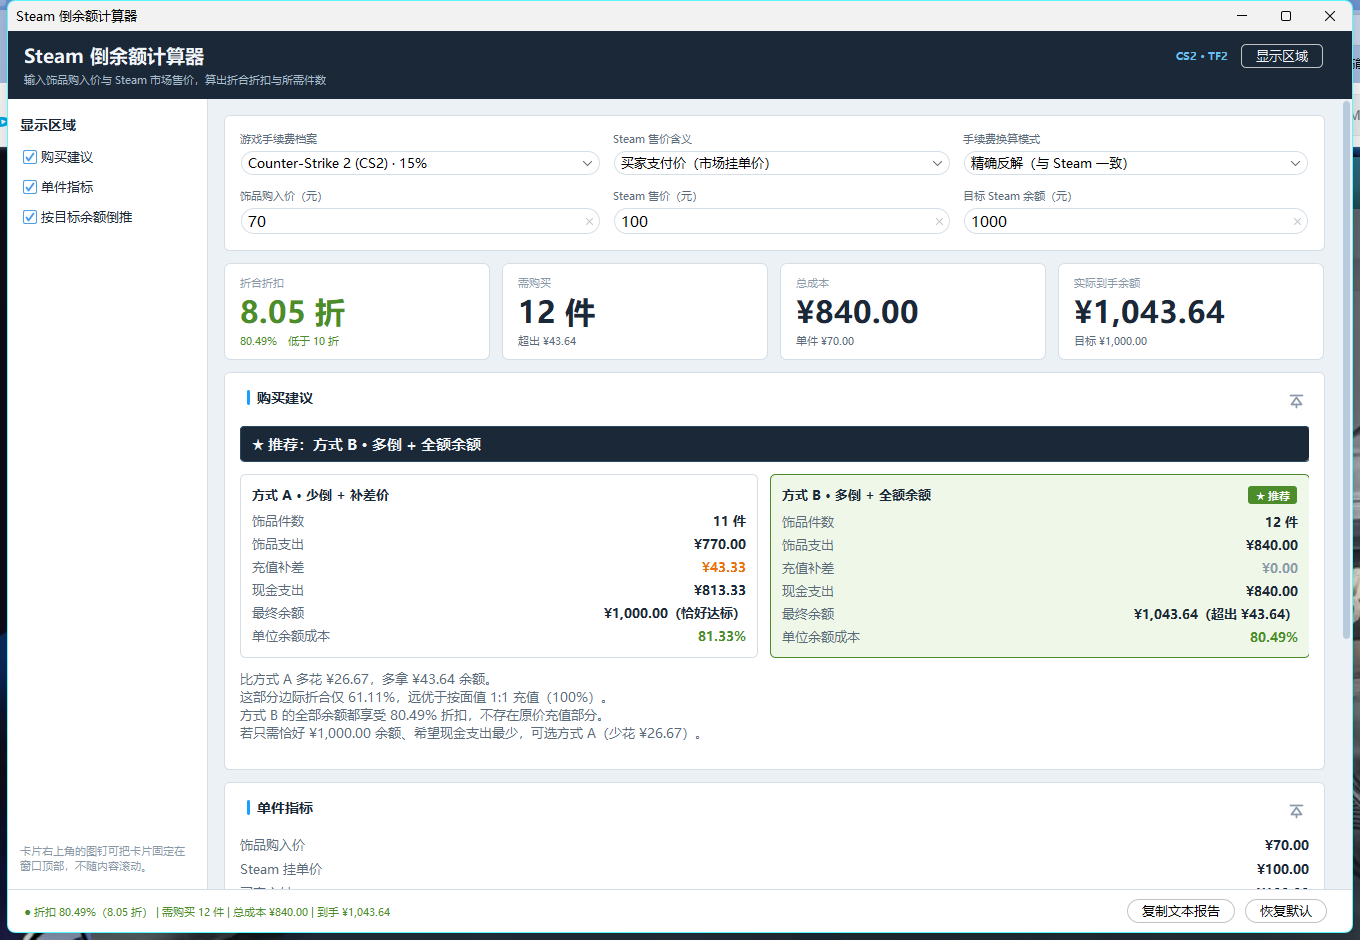
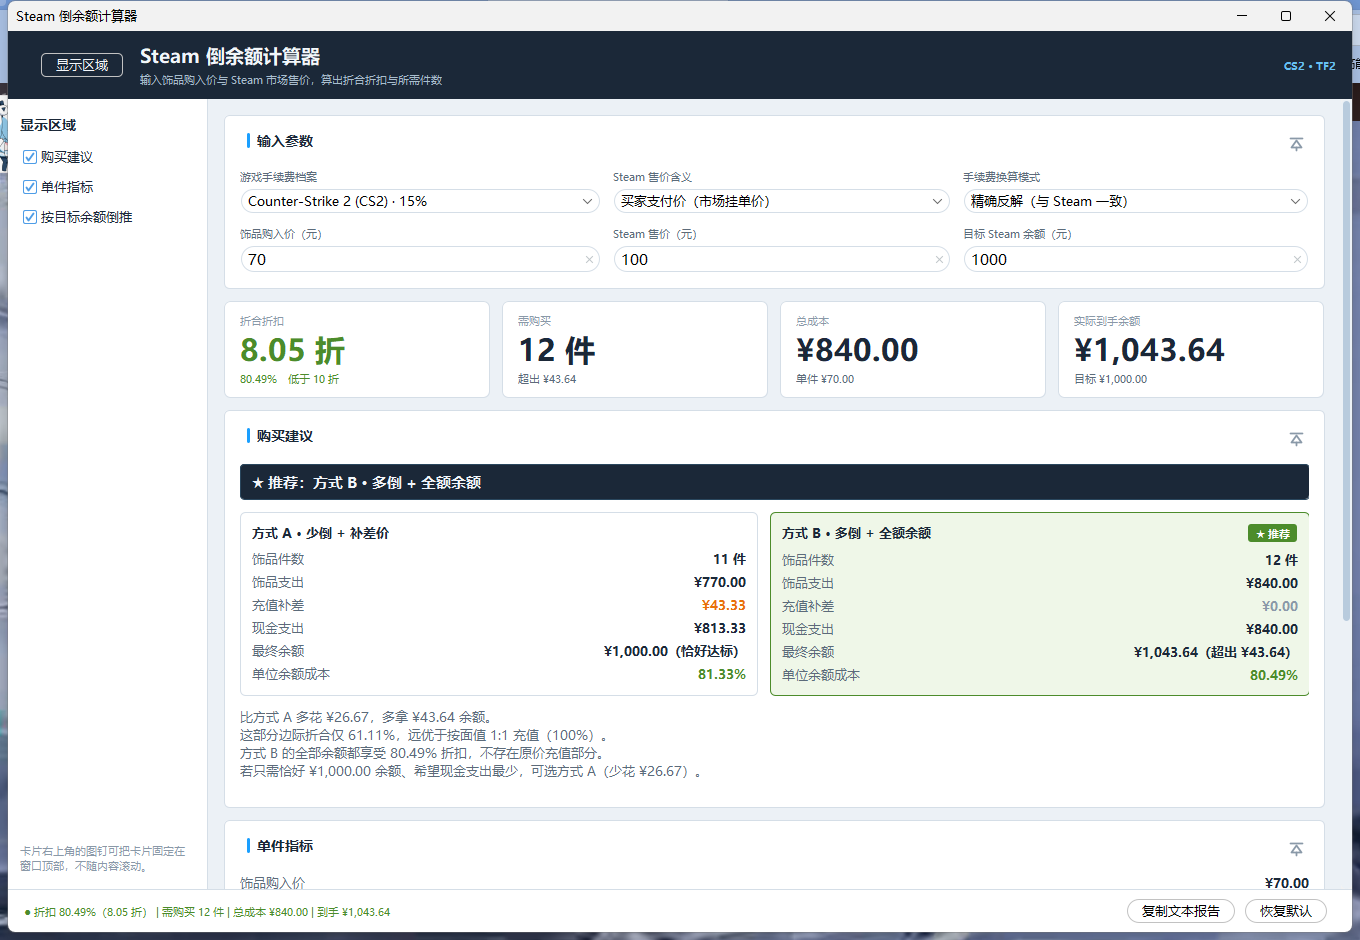
feat(gui): 输入卡也支持置顶，抽屉开关移到标题栏左侧
- 新增 InputCard（继承 SectionCard）：输入区获得标题「输入参数」与图钉按钮。
  往下看明细与建议时可以把输入区钉在顶部，一边调参数一边看结果，不必来回滚动
- 侧边抽屉开关「显示区域」从标题栏右侧移到最左侧
- 置顶与排序改用统一的 cards 列表
  （输入参数 → 购买建议 → 单件指标 → 按目标余额倒推），
  不再把输入卡硬编码在滚动区；输入卡被置顶时，核心指标卡留在滚动区顶部
- 移除重构后失去用途的 sections 字段

测试：GuiSelfCheck 50 -> 56 项，新增「输入卡在滚动区首位、指标卡紧跟其后」、
「输入卡置顶后指标卡留在首位」、「取消置顶后恢复顺序」。
README 与截图同步更新。

diff --git a/src/main/java/com/steamarbitrage/gui/SwingApp.java b/src/main/java/com/steamarbitrage/gui/SwingApp.java
@@ -10,6 +10,7 @@ import com.steamarbitrage.gui.theme.Theme;
 import com.steamarbitrage.gui.theme.UiFactory;
 import com.steamarbitrage.gui.theme.VerticalLayout;
 import com.steamarbitrage.gui.view.AdvicePanel;
+import com.steamarbitrage.gui.view.InputCard;
 import com.steamarbitrage.gui.view.InputPanel;
 import com.steamarbitrage.gui.view.MetricsPanel;
 import com.steamarbitrage.gui.view.SectionCard;
@@ -88,9 +89,14 @@ public final class SwingApp {
     private final TargetPanel targetPanel = new TargetPanel();
     private final SideDrawer sideDrawer = new SideDrawer();
 
-    /** 默认上下顺序：购买建议 → 单件指标 → 按目标余额倒推。 */
-    private final List<SectionCard> sections = List.of(advicePanel, singleItemPanel, targetPanel);
-    private final Set<SectionCard> pinnedSections = new HashSet<>();
+    /** 带置顶按钮的输入卡片。 */
+    private final InputCard inputCard = new InputCard(inputPanel);
+
+    /** 全部可置顶的卡片，顺序即默认排列顺序：输入参数 → 购买建议 → 单件指标 → 按目标余额倒推。 */
+    private final List<SectionCard> cards =
+            List.of(inputCard, advicePanel, singleItemPanel, targetPanel);
+
+    private final Set<SectionCard> pinnedCards = new HashSet<>();
 
     private final JLabel statusLabel =
             UiFactory.label(" ", Theme.regular(Theme.SIZE_SMALL), Theme.TEXT_SECONDARY);
@@ -98,7 +104,6 @@ public final class SwingApp {
     private final JButton drawerButton = UiFactory.secondaryButton("显示区域");
 
     private JFrame frame;
-    private CardPanel inputCard;
     private ScrollablePanel contentPanel;
     private ScrollablePanel pinnedPanel;
     private JScrollPane pinnedScroll;
@@ -151,9 +156,6 @@ public final class SwingApp {
     // ── 界面组装 ────────────────────────────────────────────────────────────
 
     private JComponent buildRoot() {
-        inputCard = UiFactory.card(null);
-        inputCard.add(inputPanel, BorderLayout.CENTER);
-
         JPanel body = new JPanel(new BorderLayout());
         body.setBackground(Theme.PAGE_BG);
         body.add(sideDrawer, BorderLayout.WEST);
@@ -170,21 +172,11 @@ public final class SwingApp {
         return root;
     }
 
-    /** 顶部深蓝标题栏，右侧放侧边抽屉开关。 */
+    /** 顶部深蓝标题栏：侧边抽屉开关放在最左侧，标题紧随其后。 */
     private JComponent buildHeader() {
         JPanel header = new JPanel(new BorderLayout(Theme.GAP_LG, 0));
         header.setBackground(Theme.BRAND_DARK);
         header.setBorder(new EmptyBorder(Theme.GAP_MD, Theme.GAP_LG, Theme.GAP_MD, Theme.GAP_LG));
-
-        JPanel texts = UiFactory.transparentPanel(new BorderLayout(0, 2));
-        texts.add(UiFactory.label("Steam 倒余额计算器", Theme.bold(19), Theme.TEXT_ON_DARK),
-                BorderLayout.NORTH);
-        texts.add(UiFactory.label("输入饰品购入价与 Steam 市场售价，算出折合折扣与所需件数",
-                Theme.regular(Theme.SIZE_SMALL), Theme.TEXT_ON_DARK_MUTED), BorderLayout.SOUTH);
-        header.add(texts, BorderLayout.WEST);
-
-        JPanel right = UiFactory.transparentPanel(new FlowLayout(FlowLayout.RIGHT, Theme.GAP_MD, 0));
-        right.add(UiFactory.label("CS2 · TF2", Theme.bold(Theme.SIZE_SMALL), Theme.ACCENT));
 
         drawerButton.putClientProperty("JButton.buttonType", "borderless");
         drawerButton.setForeground(Theme.TEXT_ON_DARK);
@@ -193,9 +185,20 @@ public final class SwingApp {
             sideDrawer.toggle();
             updateDrawerButton();
         });
-        right.add(drawerButton);
 
-        header.add(right, BorderLayout.EAST);
+        JPanel texts = UiFactory.transparentPanel(new BorderLayout(0, 2));
+        texts.add(UiFactory.label("Steam 倒余额计算器", Theme.bold(19), Theme.TEXT_ON_DARK),
+                BorderLayout.NORTH);
+        texts.add(UiFactory.label("输入饰品购入价与 Steam 市场售价，算出折合折扣与所需件数",
+                Theme.regular(Theme.SIZE_SMALL), Theme.TEXT_ON_DARK_MUTED), BorderLayout.SOUTH);
+
+        JPanel left = UiFactory.transparentPanel(new FlowLayout(FlowLayout.LEFT, Theme.GAP_LG, 0));
+        left.add(drawerButton);
+        left.add(texts);
+        header.add(left, BorderLayout.WEST);
+
+        header.add(UiFactory.label("CS2 · TF2", Theme.bold(Theme.SIZE_SMALL), Theme.ACCENT),
+                BorderLayout.EAST);
         return header;
     }
 
@@ -258,14 +261,14 @@ public final class SwingApp {
         return bar;
     }
 
-    /** 把三块内容的置顶按钮与侧边开关接到重排逻辑上。 */
+    /** 把卡片的置顶按钮与侧边开关接到重排逻辑上。 */
     private void bindSections() {
-        for (SectionCard card : sections) {
+        for (SectionCard card : cards) {
             card.onPin(pinned -> {
                 if (pinned) {
-                    pinnedSections.add(card);
+                    pinnedCards.add(card);
                 } else {
-                    pinnedSections.remove(card);
+                    pinnedCards.remove(card);
                 }
                 rebuildSections();
             });
@@ -274,7 +277,7 @@ public final class SwingApp {
         sideDrawer.onSectionChanged((section, visible) -> {
             SectionCard card = cardFor(section);
             card.setVisible(visible);
-            if (!visible && pinnedSections.remove(card)) {
+            if (!visible && pinnedCards.remove(card)) {
                 // 隐藏时同时取消置顶，否则它会继续占着顶部空间
                 card.setPinned(false);
             }
@@ -291,26 +294,31 @@ public final class SwingApp {
     }
 
     /**
-     * 按「显示状态 + 置顶状态」重新分配三块内容：
+     * 按「显示状态 + 置顶状态」重新分配卡片：
      * 置顶的进固定区，其余的按默认顺序排在滚动区。
      */
     private void rebuildSections() {
         pinnedPanel.removeAll();
         contentPanel.removeAll();
 
-        contentPanel.add(inputCard);
-        contentPanel.add(metricsPanel);
+        // 核心指标卡紧跟输入卡；输入卡被钉住时，指标卡留在滚动区顶部
+        int metricsIndex = -1;
 
-        for (SectionCard card : sections) {
+        for (SectionCard card : cards) {
             if (!card.isVisible()) {
                 continue;
             }
-            if (pinnedSections.contains(card)) {
+            if (pinnedCards.contains(card)) {
                 pinnedPanel.add(card);
             } else {
                 contentPanel.add(card);
+                if (card == inputCard) {
+                    metricsIndex = contentPanel.getComponentCount();
+                }
             }
         }
+
+        contentPanel.add(metricsPanel, metricsIndex < 0 ? 0 : metricsIndex);
 
         updatePinnedHeight();
         pinnedPanel.revalidate();

diff --git a/src/main/java/com/steamarbitrage/test/GuiSelfCheck.java b/src/main/java/com/steamarbitrage/test/GuiSelfCheck.java
@@ -78,6 +78,7 @@ public final class GuiSelfCheck {
             invoke(app, "buildRoot");
 
             InputPanel input = (InputPanel) field(app, "inputPanel");
+            SectionCard inputCard = (SectionCard) field(app, "inputCard");
             SectionCard advice = (SectionCard) field(app, "advicePanel");
             SectionCard singleItem = (SectionCard) field(app, "singleItemPanel");
             SectionCard target = (SectionCard) field(app, "targetPanel");
@@ -117,15 +118,30 @@ public final class GuiSelfCheck {
             checkTrue("目标倒推显示需购买数量", targetText.contains("12 件"));
             checkTrue("目标倒推显示超出目标", targetText.contains("¥43.64"));
 
-            // ── 用例 C：默认上下顺序「购买建议 → 单件指标 → 目标倒推」──
+            // ── 用例 C：默认上下顺序「输入参数 → 指标卡 → 购买建议 → 单件指标 → 目标倒推」──
+            JPanel metricsCard = (JPanel) field(app, "metricsPanel");
+            int inputIndex = indexOf(content, inputCard);
+            int metricsIndex = indexOf(content, metricsCard);
             int adviceIndex = indexOf(content, advice);
             int singleIndex = indexOf(content, singleItem);
             int targetIndex = indexOf(content, target);
+
+            checkTrue("输入卡排在滚动区最前", inputIndex == 0);
+            checkTrue("核心指标卡紧跟输入卡", metricsIndex == inputIndex + 1);
             checkTrue("购买建议排在单件指标之前",
                     adviceIndex >= 0 && singleIndex >= 0 && adviceIndex < singleIndex);
             checkTrue("单件指标排在目标倒推之前", singleIndex < targetIndex);
             checkTrue("默认没有卡片被置顶", pinned.getComponentCount() == 0);
             checkTrue("默认置顶区隐藏", !pinnedScroll.isVisible());
+
+            // 输入卡也能置顶，此时指标卡留在滚动区顶部
+            inputCard.header().togglePinForTest();
+            checkTrue("输入卡可置顶", indexOf(pinned, inputCard) >= 0);
+            checkTrue("输入卡置顶后指标卡留在滚动区首位", indexOf(content, metricsCard) == 0);
+            inputCard.header().togglePinForTest();
+            checkTrue("取消置顶后输入卡回到滚动区", indexOf(content, inputCard) >= 0);
+            checkTrue("恢复后指标卡重新紧跟输入卡",
+                    indexOf(content, metricsCard) == indexOf(content, inputCard) + 1);
 
             // ── 用例 D：图钉把卡片搬到固定区 ──
             advice.header().togglePinForTest();

diff --git a/src/main/java/com/steamarbitrage/gui/view/InputCard.java b/src/main/java/com/steamarbitrage/gui/view/InputCard.java
@@ -1,0 +1,15 @@
+package com.steamarbitrage.gui.view;
+
+/**
+ * 输入卡片：参数输入区 + 置顶按钮。
+ *
+ * <p>输入区平时就在滚动内容的最上方，但往下看明细与建议时会被滚出视野；
+ * 用图钉把它固定住，就能一边调参数一边看结果，不必来回滚动。
+ */
+public final class InputCard extends SectionCard {
+
+    public InputCard(InputPanel inputPanel) {
+        super("输入参数");
+        setBody(inputPanel);
+    }
+}

diff --git a/src/main/java/com/steamarbitrage/test/GuiSnapshot.java b/src/main/java/com/steamarbitrage/test/GuiSnapshot.java
@@ -125,6 +125,9 @@ public final class GuiSnapshot {
         } else if ("pinned".equals(state)) {
             SectionCard advice = (SectionCard) field(app, "advicePanel");
             SwingUtilities.invokeAndWait(advice.header()::togglePinForTest);
+        } else if ("pinned-input".equals(state)) {
+            SectionCard input = (SectionCard) field(app, "inputCard");
+            SwingUtilities.invokeAndWait(input.header()::togglePinForTest);
         }
     }
 

diff --git a/README.md b/README.md
@@ -242,16 +242,20 @@ BUFF 购入价 **70.00 元**，Steam 挂单价 **100.00 元**，目标余额 **1
 
 | 区域 | 内容 |
 |---|---|
-| 顶部标题栏 | Steam 深蓝 `#1B2838`，取自 Steam 客户端主背景色；右侧是侧边抽屉开关 |
+| 顶部标题栏 | Steam 深蓝 `#1B2838`；**最左侧**是侧边抽屉开关「显示区域」 |
 | 侧边抽屉 | 可折叠（默认收起），三个开关控制下方内容区域的显示 |
-| 输入区 | 两行三列，小标签在上、控件在下；下拉框带 tooltip 说明 |
+| 输入参数卡 | 两行三列，小标签在上、控件在下；下拉框带 tooltip 说明 |
 | 核心指标卡 | 折合折扣、需购买、总成本、实际到手余额——**大号数字承载结论**，划算为绿、不划算为红 |
 | 内容卡片 | 购买建议 → 单件指标 → 按目标余额倒推；每张卡右上角有图钉按钮 |
 | 底部状态栏 | 单行摘要；右侧「复制文本报告」「恢复默认」按钮 |
 
+**四张卡片都带图钉**：输入参数、购买建议、单件指标、按目标余额倒推。
+侧边抽屉的三个开关只控制后三块内容，输入区始终显示。
+
 ### 内容区域的显示与置顶
 
-三块内容都是独立卡片，可以**单独隐藏**，也可以**单独固定在窗口顶部**。
+三块内容都是独立卡片，可以**单独隐藏**，也可以**单独固定在窗口顶部**；
+输入参数卡同样带图钉，方便一边调参数一边看结果。
 
 点标题栏右侧的「显示区域」滑出侧边抽屉：
 
@@ -369,12 +373,13 @@ steam倒余额计算器\
    │       ├─ MetricsPanel.java              核心指标区
    │       ├─ SideDrawer.java                可折叠的侧边显示开关抽屉
    │       ├─ SectionCard.java               可隐藏 / 可置顶的卡片基类
+   │       ├─ InputCard.java                 输入参数卡
    │       ├─ AdvicePanel.java               购买建议卡
    │       ├─ SingleItemPanel.java           单件指标卡
    │       └─ TargetPanel.java               按目标余额倒推卡
    └─ test\
        ├─ SelfTest.java               核心自测（194 项断言）
-       ├─ GuiSelfCheck.java           图形界面自测（50 项断言）
+       ├─ GuiSelfCheck.java           图形界面自测（56 项断言）
        └─ GuiSnapshot.java            界面截图工具（开发期自查，不参与断言）
 ```
 
